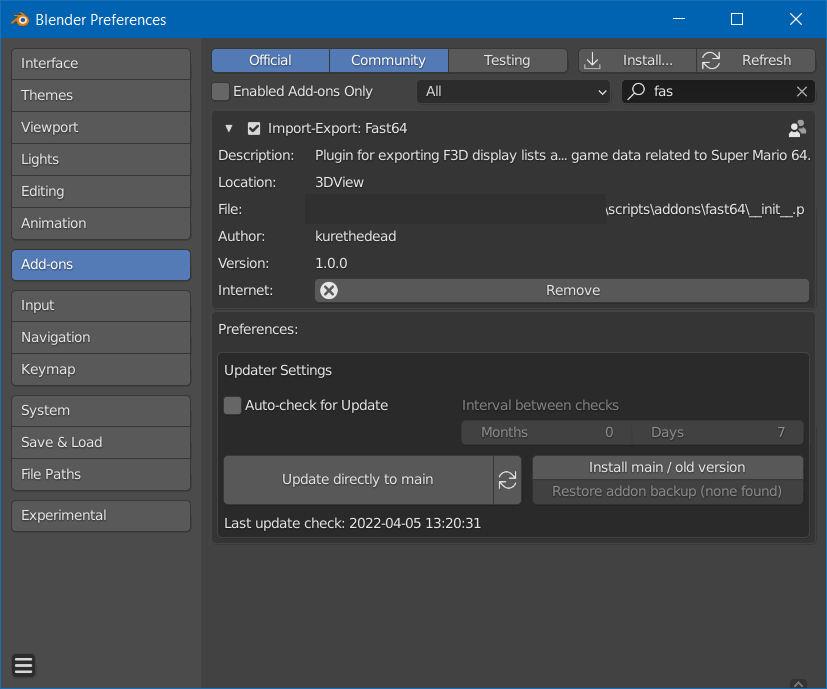
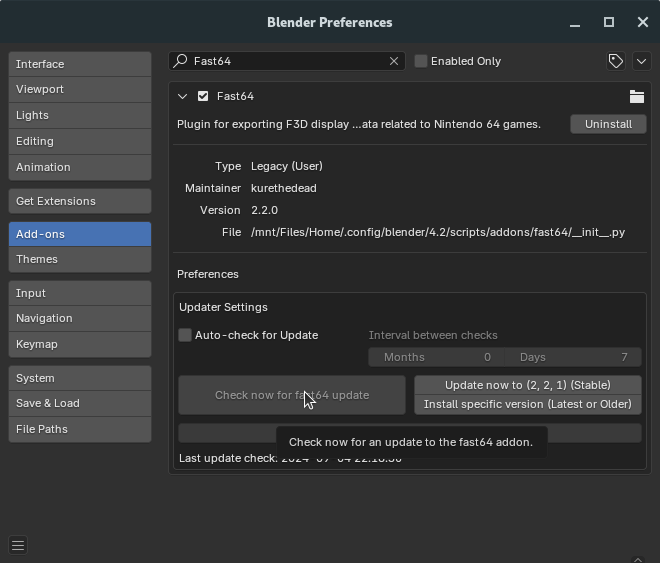
Make update UI more understandable
Don't box the ui as the preferences are already part of a box (looks disgusting in 4.2)
Update to stable now on the same column as update to main to make them seem both equally useful
Change text for main/old to be more obviously important, from "Install main / old version" to "Install specific version (Latest or Older)"
Move the restore operator into another row

Updated readme with new instructions and screenshots

diff --git a/addon_updater_ops.py b/addon_updater_ops.py
@@ -950,21 +950,20 @@ def update_settings_ui(self, context, element=None):
     # Element is a UI element, such as layout, a row, column, or box.
     if element is None:
         element = self.layout
-    box = element.box()
 
     # In case of error importing updater.
     if updater.invalid_updater:
-        box.label(text="Error initializing updater code:")
-        box.label(text=updater.error_msg)
+        element.label(text="Error initializing updater code:")
+        element.label(text=updater.error_msg)
         return
     settings = get_user_preferences(context)
     if not settings:
-        box.label(text="Error getting updater preferences", icon='ERROR')
+        element.label(text="Error getting updater preferences", icon='ERROR')
         return
 
     # auto-update settings
-    box.label(text="Updater Settings")
-    row = box.row()
+    element.label(text="Updater Settings")
+    row = element.row()
 
     # special case to tell user to restart blender, if set that way
     if not updater.auto_reload_post_update:
@@ -998,7 +997,7 @@ def update_settings_ui(self, context, element=None):
     # check_col.prop(settings,"updater_interval_minutes")
 
     # Checking / managing updates.
-    row = box.row()
+    row = element.row()
     col = row.column()
     if updater.error is not None:
         sub_col = col.row(align=True)
@@ -1018,7 +1017,7 @@ def update_settings_ui(self, context, element=None):
         split.operator(AddonUpdaterCheckNow.bl_idname,
                        text="", icon="FILE_REFRESH")
 
-    elif updater.update_ready is None and not updater.async_checking:
+    elif not updater.async_checking:
         col.scale_y = 2
         col.operator(AddonUpdaterCheckNow.bl_idname)
     elif updater.update_ready is None:  # async is running
@@ -1048,25 +1047,13 @@ def update_settings_ui(self, context, element=None):
         split.operator(AddonUpdaterCheckNow.bl_idname,
                        text="", icon="FILE_REFRESH")
 
-    elif updater.update_ready and not updater.manual_only:
-        sub_col = col.row(align=True)
-        sub_col.scale_y = 1
-        split = sub_col.split(align=True)
-        split.scale_y = 2
-        split.operator(AddonUpdaterUpdateNow.bl_idname,
-                       text="Update now to " + str(updater.update_version))
-        split = sub_col.split(align=True)
-        split.scale_y = 2
-        split.operator(AddonUpdaterCheckNow.bl_idname,
-                       text="", icon="FILE_REFRESH")
-
     elif updater.update_ready and updater.manual_only:
         col.scale_y = 2
         dl_now_txt = "Download " + str(updater.update_version)
         col.operator("wm.url_open",
                      text=dl_now_txt).url = updater.website
-    else:  # i.e. that updater.update_ready == False.
-        sub_col = col.row(align=True)
+    else: # i.e. that updater.update_ready == False.
+        sub_col = element.row(align=True)
         sub_col.scale_y = 1
         split = sub_col.split(align=True)
         split.enabled = False
@@ -1080,10 +1067,16 @@ def update_settings_ui(self, context, element=None):
 
     if not updater.manual_only:
         col = row.column(align=True)
+        if updater.update_ready:
+            sub_col = col.row(align=True)
+            sub_col.scale_y = 1
+            split = sub_col.split(align=True)
+            split.operator(AddonUpdaterUpdateNow.bl_idname,
+                        text=f"Update now to {updater.update_version} (Stable)")
+
         if updater.include_branches and len(updater.include_branch_list) > 0:
-            branch = updater.include_branch_list[0]
             col.operator(AddonUpdaterUpdateTarget.bl_idname,
-                         text="Install {} / old version".format(branch))
+                         text="Install specific version (Latest or Older)")
         else:
             col.operator(AddonUpdaterUpdateTarget.bl_idname,
                          text="(Re)install addon version")
@@ -1095,9 +1088,9 @@ def update_settings_ui(self, context, element=None):
             else:
                 last_date = updater.json["backup_date"]
         backup_text = "Restore addon backup ({})".format(last_date)
-        col.operator(AddonUpdaterRestoreBackup.bl_idname, text=backup_text)
+        element.operator(AddonUpdaterRestoreBackup.bl_idname, text=backup_text)
 
-    row = box.row()
+    row = element.row()
     row.scale_y = 0.7
     last_check = updater.json["last_check"]
     if updater.error is not None and updater.error_msg is not None:
@@ -1195,7 +1188,7 @@ def update_settings_ui_condensed(self, context, element=None):
         split = sub_col.split(align=True)
         split.scale_y = 2
         split.operator(AddonUpdaterUpdateNow.bl_idname,
-                       text="Update now to " + str(updater.update_version))
+                       text=f"Update now to {updater.update_version} (Stable)")
         split = sub_col.split(align=True)
         split.scale_y = 2
         split.operator(AddonUpdaterCheckNow.bl_idname,

diff --git a/README.md b/README.md
@@ -75,15 +75,18 @@ Click the "Check now for fast64 update" button to check for updates.
 
 ![Updater preferences after clicking the "check for updates" button](/images/updater_after_check.png)
 
-Click "Install main / old version" and choose "Main" if it isn't already selected:
+From here you may update to a stable version, the latest version or even an older release.
+If you are encountering a bug try updating to latest as it may solve your issue.
 
-![Updater: install main](/images/updater_install_main.png)
+- To install a stable release, click the "Update now to (Version) (Stable)" button.
+- To install latest, click the "Install specific version (Latest or Older)" button, select main and click ok.
+- To install an older version, click the "Install specific version (Latest or Older)" button, select your desired version and click ok.
 
-Click OK, there should be a message "Addon successfully installed" and prompting you to restart Blender:
+After updating, there should be a message "Addon successfully installed" and prompting you to restart Blender:
 
 ![Updater: successful install, must restart](/images/updater_success_restart.png)
 
-Clicking the red button will close Blender. After restarting, fast64 will be up-to-date with the latest main revision.
+Clicking the red button will close Blender. After restarting, fast64 will be in your desired version, if not there may be permission issues causing the updater to fail, try to download your desired version from github instead.
 
 ### Fast64 Development
 If you'd like to develop in VSCode, follow this tutorial to get proper autocomplete. Skip the linter for now, we'll need to make sure the entire project gets linted before enabling autosave linting because the changes will be massive.
